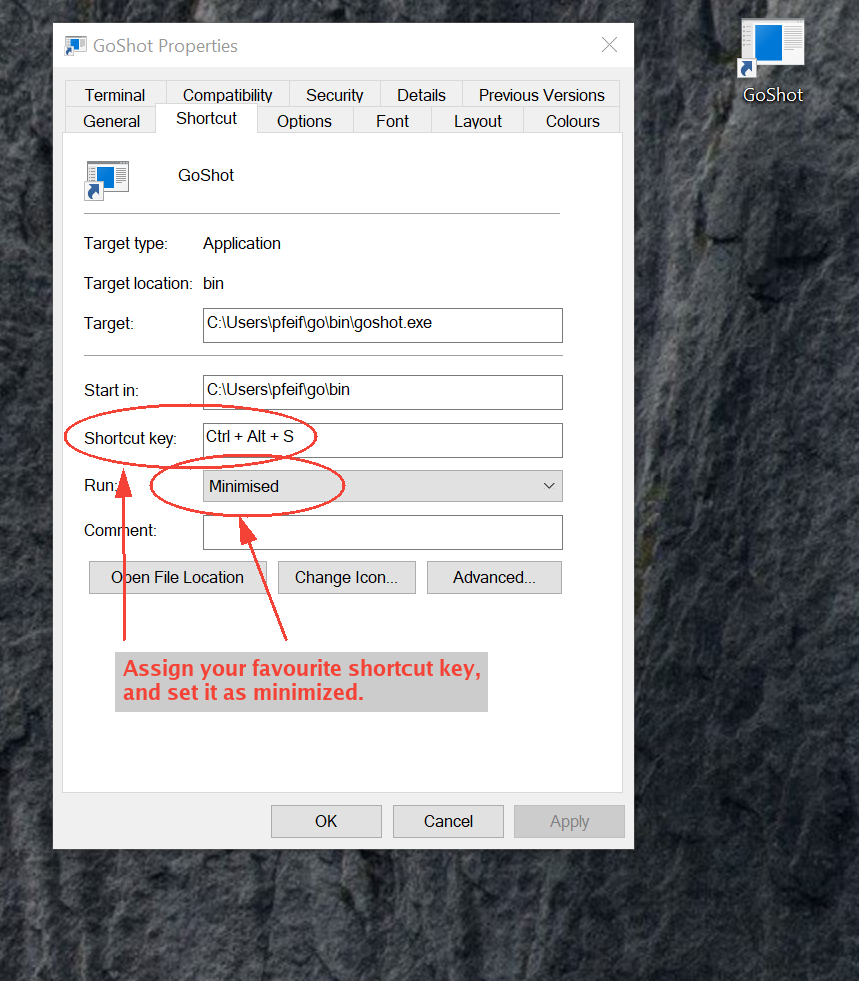
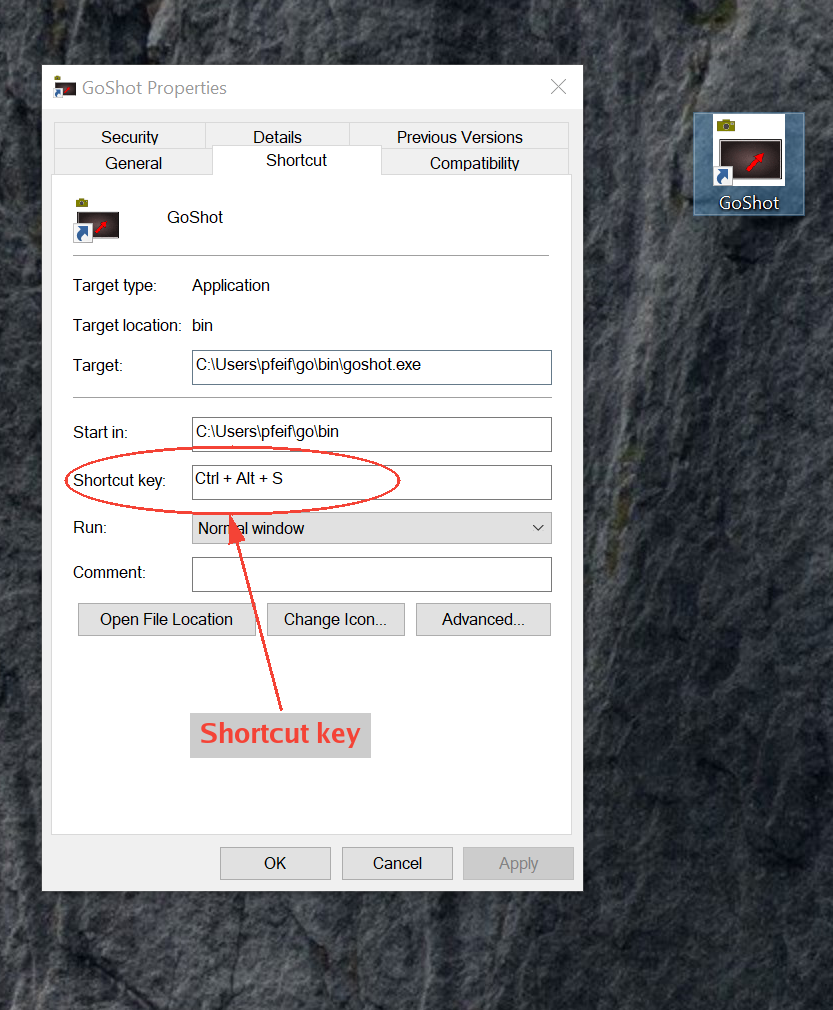
Updates to README.md

diff --git a/README.md b/README.md
@@ -39,8 +39,7 @@ directory `c:\Tools` and I put manually installed binaries there.
 #### Assigning to shortcut key (hotkey)
 
 In Windows 10 a *shortcut key* can be easily assigned to a "shortcut file" **in the Desktop**. 
-Elsewhere, it doesn't seem to work ... despite Windows allowing to set the shortcut, not sure what 
-was the logic the engineers had in their mind here.
+Elsewhere, it doesn't seem to work.
 
 Right-click on the desktop, create a shortcut and point it to where you installed your GoShot `.exe`
 file. Then right-click on the "shortcut file", in the Desktop, and assign a "shortcut key", which can
@@ -85,13 +84,19 @@ $ nohup goshot --systray >& /tmp/goshot.out &
 
 ### Using [Go](https://golang.org) 
 
-If you have the [Go language](https://golang.org) installed you can also simply do (both Windows and Linux):
+If you have the [Go language](https://golang.org) installed you can also simply do in Linux:
 
 ```shell
 $ go install github.com/janpfeifer/goshot@latest
 ```
 
-It will compile (take a couple of minutes) and show up in your Go directory.
+In Windows, you have to add a flag to tell it not to open the program in a terminal (cmd.exe):
+
+```shell
+$ go install -ldflags="-H windowsgui" github.com/janpfeifer/goshot@latest
+```
+
+In both cases it will compile (take a couple of minutes) and show up in your Go directory.
 
 ### Running in the System Tray
 
